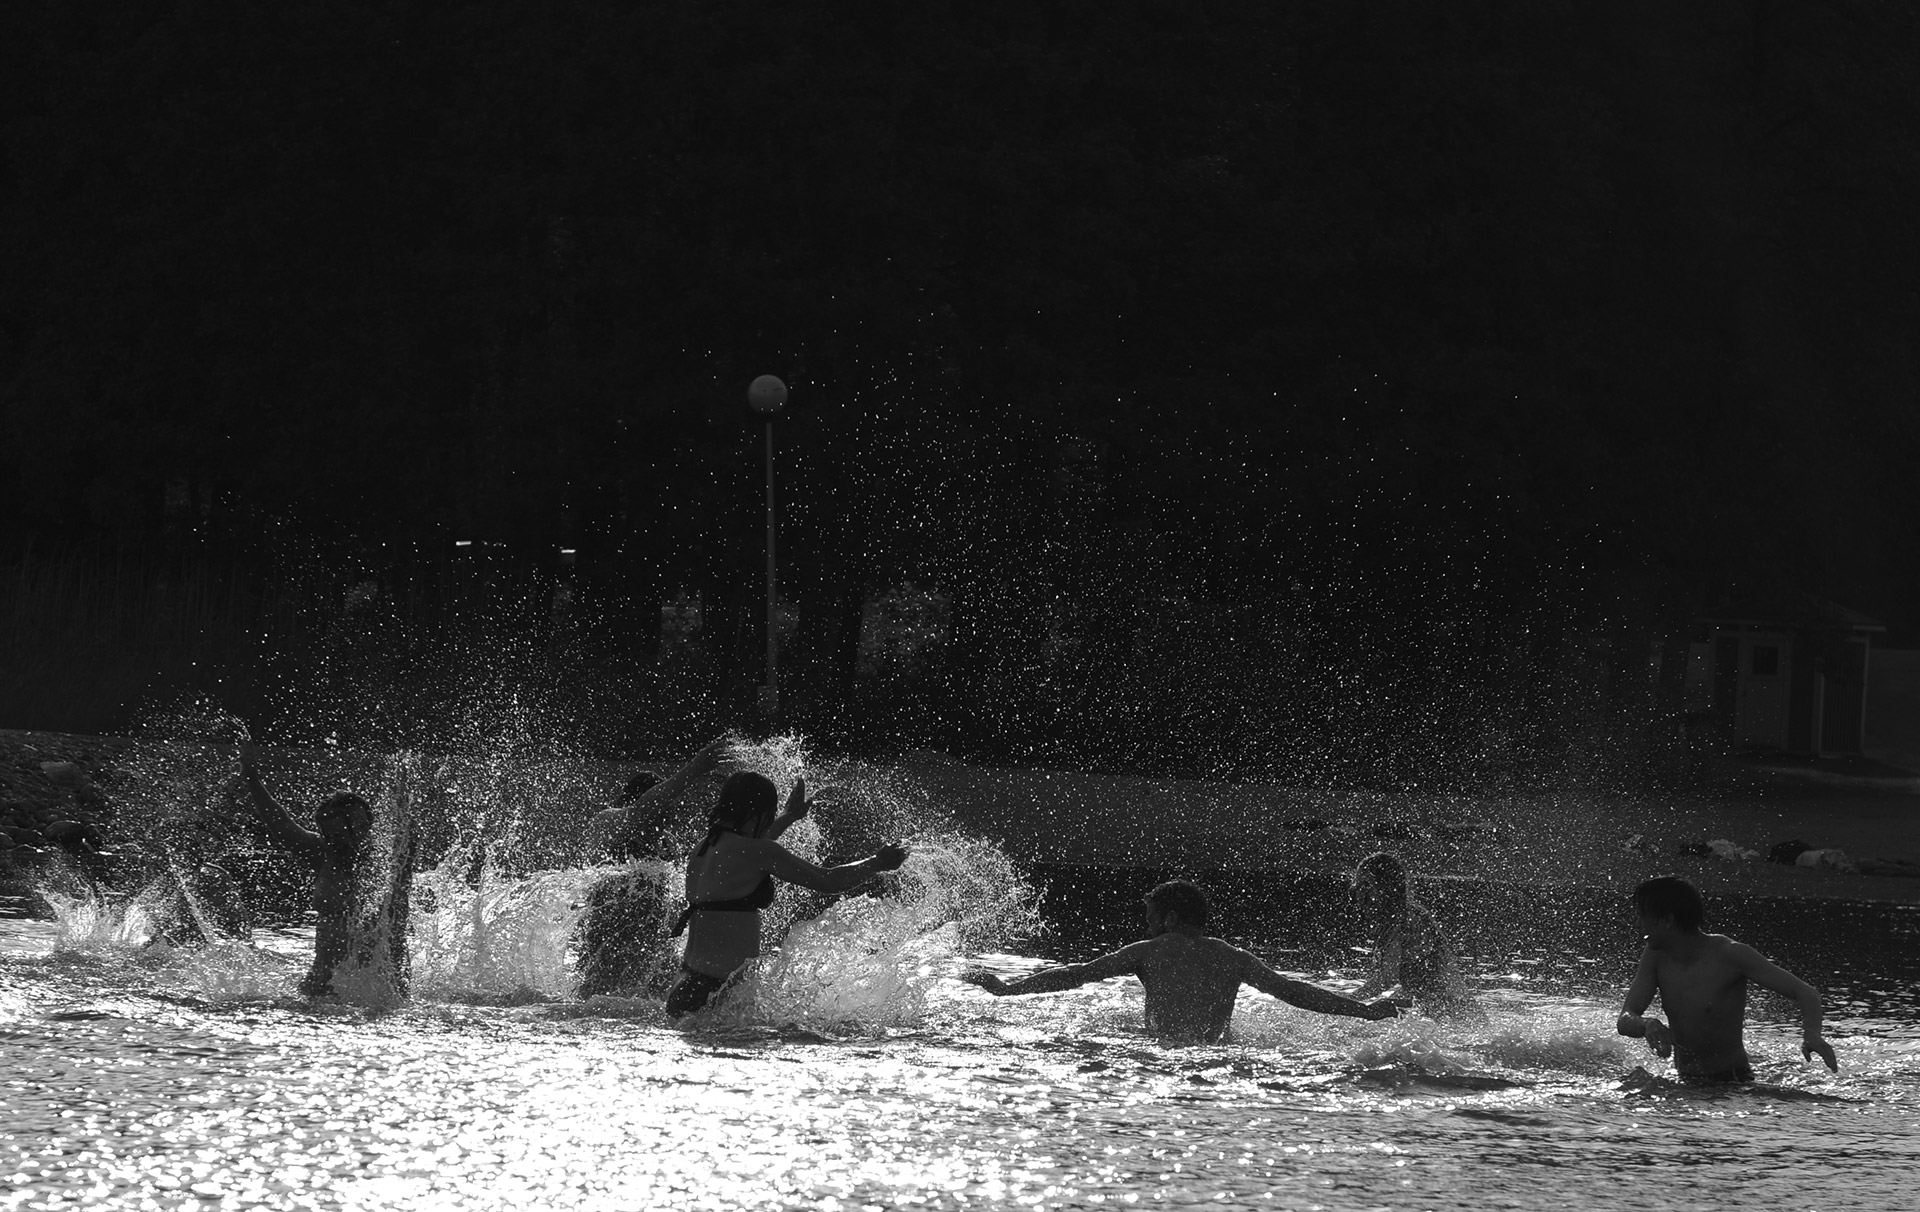
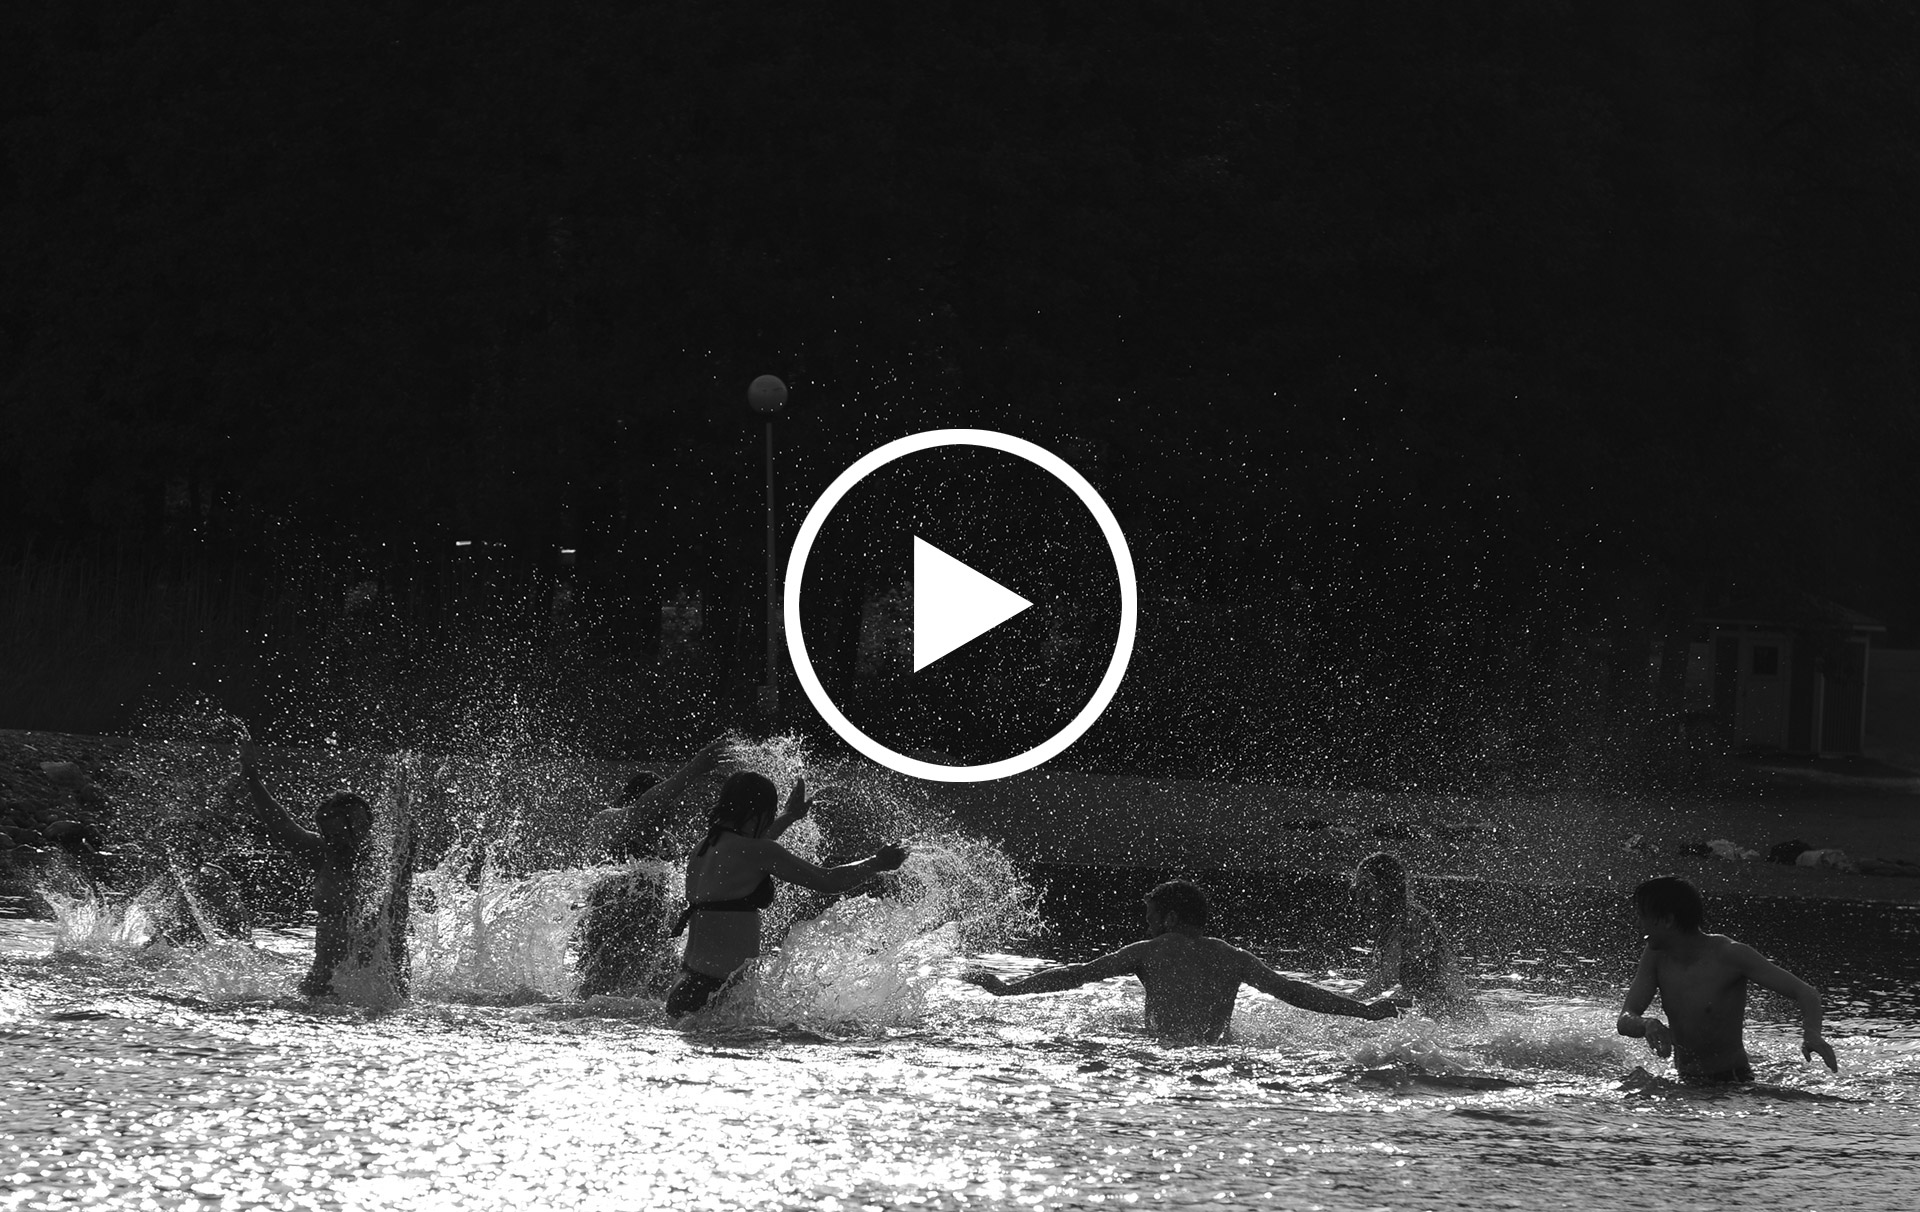
Simplify player layout

Changed region(s): [[0.4062, 0.3969, 0.5938, 0.6411], [0.4688, 0.4274, 0.5312, 0.5495], [0.4375, 0.3358, 0.5625, 0.3969]]

diff --git a/index.html b/index.html
@@ -50,8 +50,8 @@
 </div>
 <div class="teaser dark">
     <div class="row">
-        <div class="large-12 columns text-center">
-            <div id="play" class="arrow"></div>
+        <ul class="small-block-grid-1">
+            <li><img id="player" src="img/teaser.jpg"></li>
         </div>
     </div>
 </div>
@@ -111,9 +111,9 @@
 
     function onYouTubeIframeAPIReady() {
 
-        var player = new YT.Player('play', {
-            height: '480',
-            width: '853',
+        var player = new YT.Player('player', {
+            width: $('#player').width(),
+            height: $('#player').height() - 7,
             videoId: 'QSff3OxO2M4',
             events: {
                 'onReady': onPlayerReady
@@ -126,7 +126,7 @@
     }
 
     $(function () {
-        $('#play').click(function () {
+        $('#player').click(function () {
             var tag = document.createElement('script');
             tag.src = "//www.youtube.com/iframe_api";
             var firstScriptTag = document.getElementsByTagName('script')[0];

diff --git a/css/styles.css b/css/styles.css
@@ -50,34 +50,13 @@ a, h2, h3 {
     background-size: 100% auto;
 }
 
+#player {
+    cursor: pointer;
+}
 
 .white {
     background: rgb(250, 250, 250);
     padding: 4em 0;
-}
-
-.teaser .row {
-    height: 600px;
-    padding: 4em 0;
-    background: url('../img/teaser.jpg') no-repeat;
-    background-size: 100% auto;
-}
-
-#play {
-}
-
-.arrow {
-    display: inline-block;
-    cursor: pointer;
-    margin-top: 100px;
-    width: 250px;
-    height: 250px;
-    background: url('../img/play.png') no-repeat;
-    background-size: 100% auto;
-}
-
-.arrow:hover {
-    opacity: 0.8;
 }
 
 .sponsors h3 {
@@ -86,10 +65,6 @@ a, h2, h3 {
 
 .dark {
     background: rgb(16, 16, 16);
-}
-
-.photos {
-    padding-top: 1em;
 }
 
 .red {
